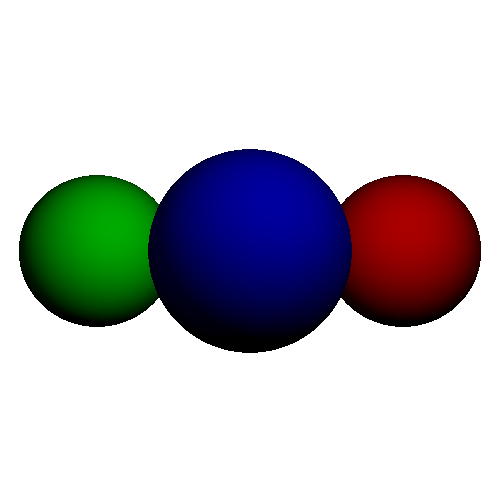
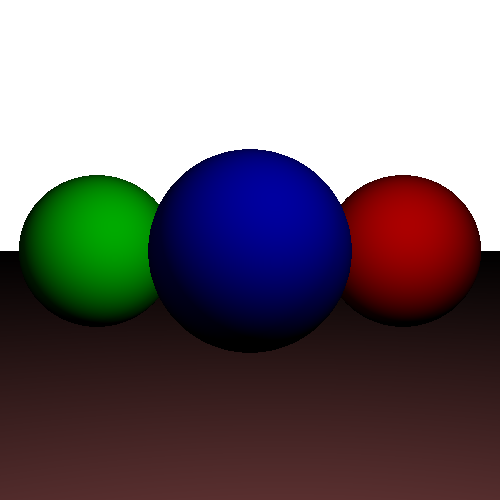
added support for planes

diff --git a/README.md b/README.md
@@ -2,6 +2,6 @@
 
 A simple raycaster written in Haskell
 
-Below is an example input with three spheres and two point lights.
+Below is an example input with three spheres, a plane, and two point lights.
 
 ![](images/threeSpheres.png)
